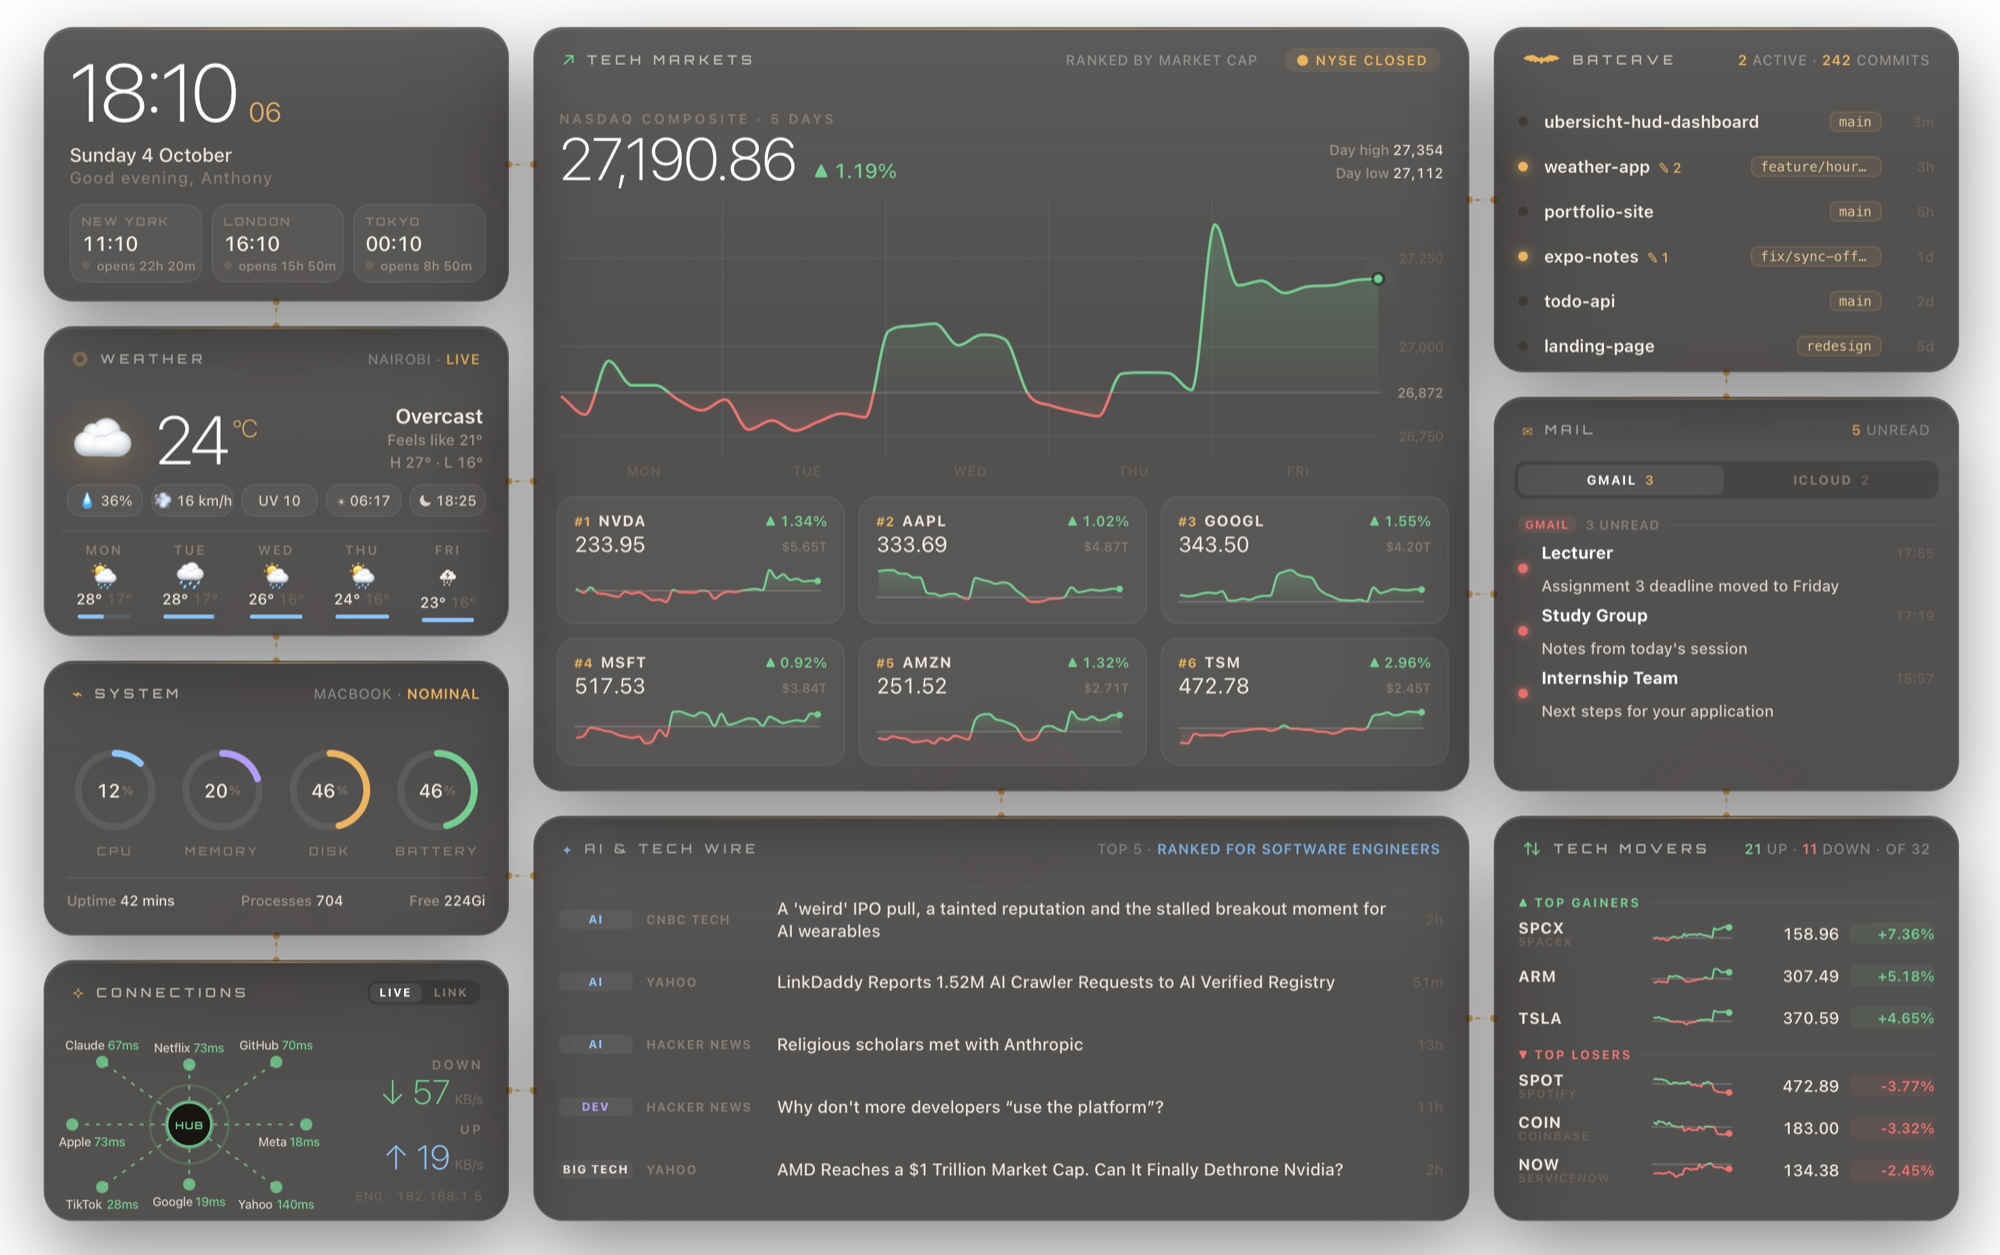
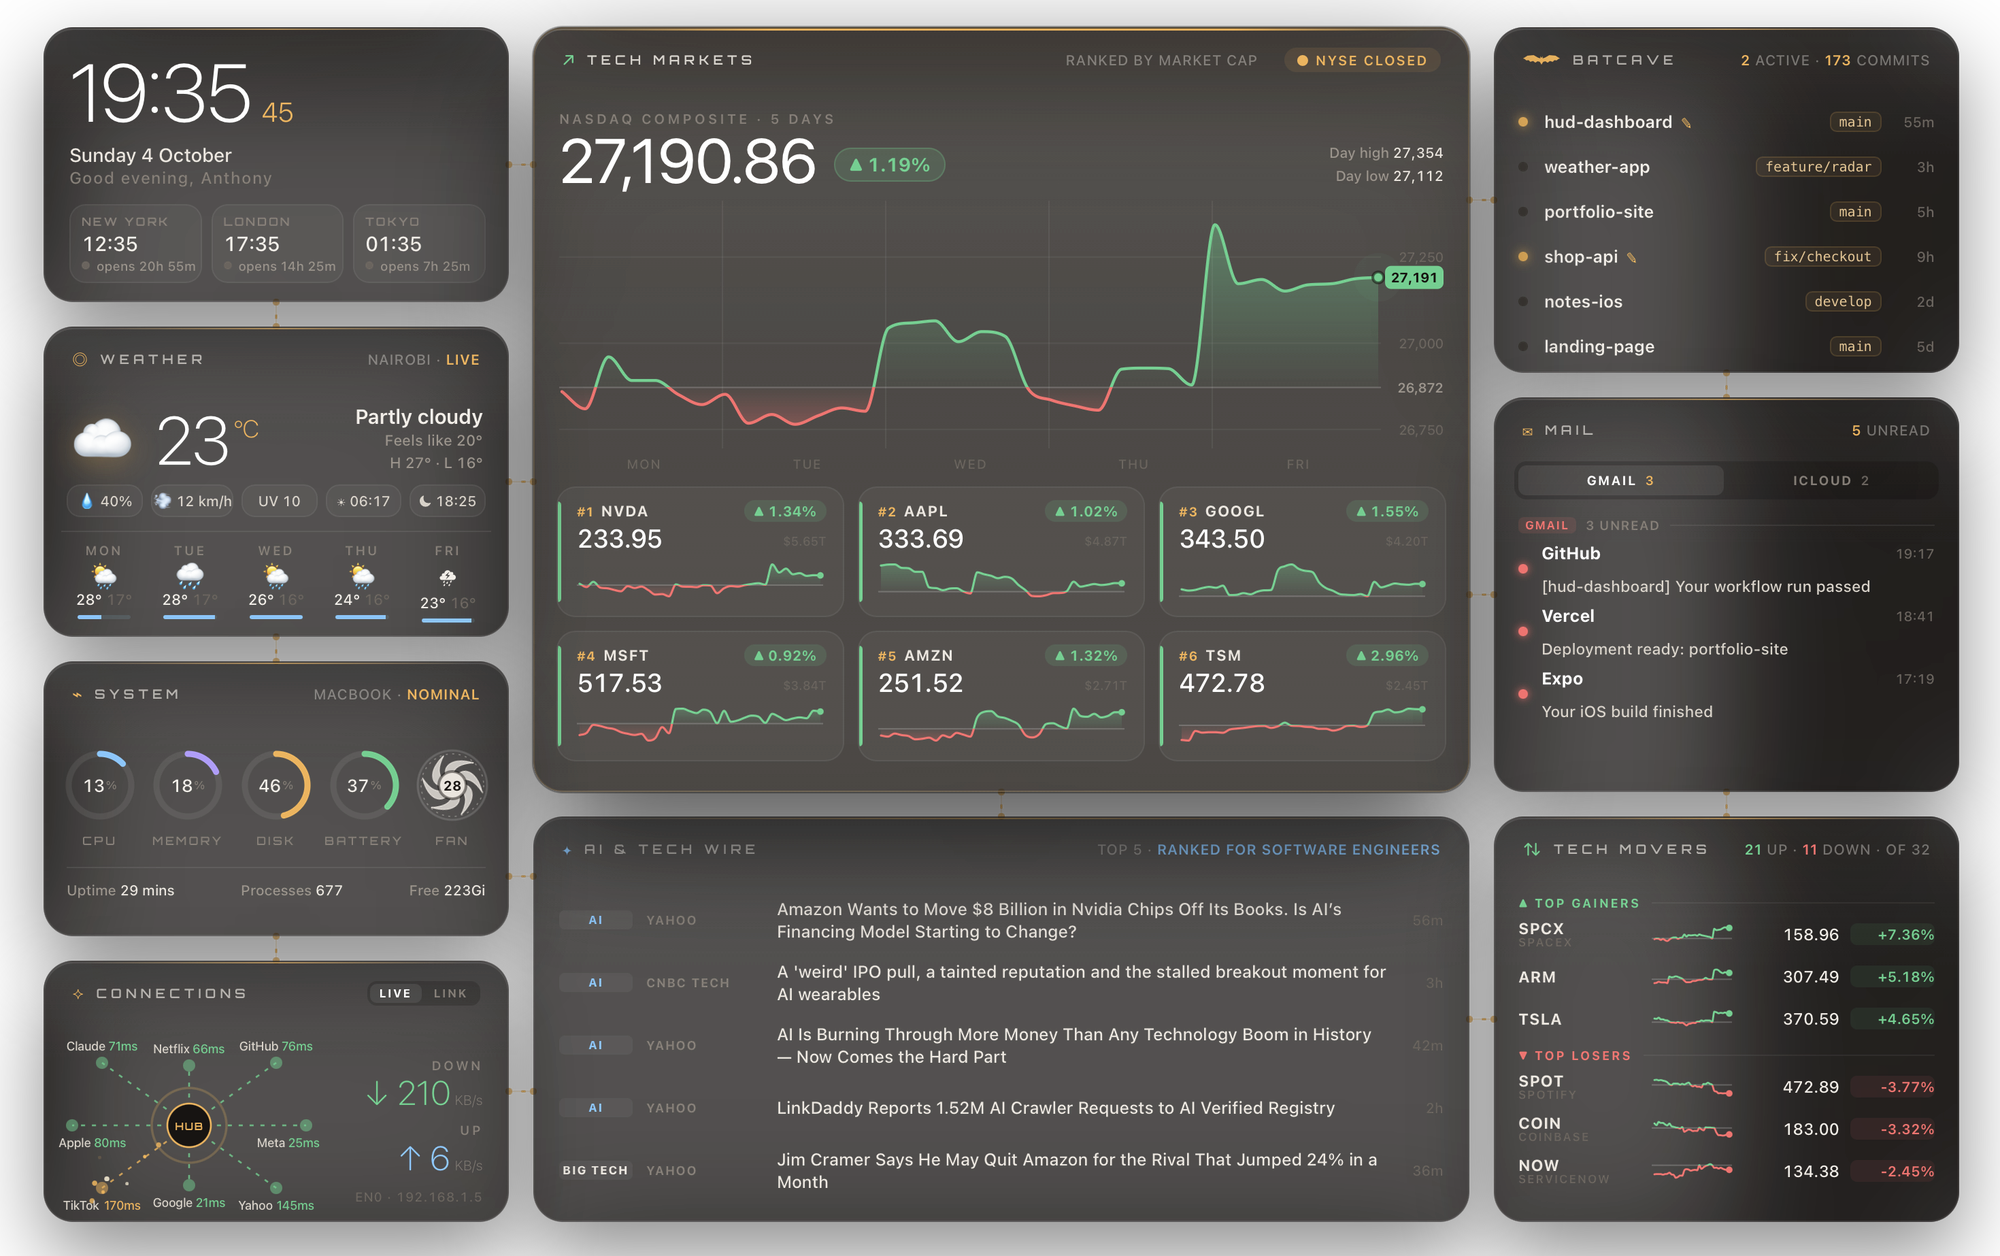
System: load-driven fan; fresh README screenshots
A fifth gauge on the System panel: a turbine fan whose speed follows the
combined load (CPU, memory, battery drain, disk), from a lazy 0.25 rev/s
at idle to a 3.5 rev/s blur, ramping smoothly between refreshes. The
header status now reads NOMINAL / BUSY / WORKING HARD / HOT.

Tech Markets: the stage falls back to NASDAQ 8 s after the mouse last
moved over the panel, since leaving into a gap sends no mouseleave.

README: new dashboard, Tech Markets and System screenshots (placeholder
projects and emails) and updated descriptions.

diff --git a/build_widgets.py b/build_widgets.py
@@ -438,28 +438,31 @@ export const render = ({ output }) => {
 };''')
 
 # ───────────────────────── SYSTEM ─────────────────────────
-widget("system", r'''// System monitor: CPU, memory, disk, battery.
+widget("system", r'''// System monitor: CPU, memory, disk, battery + a fan whose speed follows the combined load.
 export const command = "~/.stark/system.sh";
 export const refreshFrequency = 10 * 1000;
 export const className = `
   %%POS%%%%SHARED%%
-  .rings { display:grid; grid-template-columns: repeat(4, 1fr); padding:16px 12px 8px; text-align:center }
-  .ring { position:relative; width:64px; height:64px; margin:0 auto }
-  .ring b { position:absolute; inset:0; display:flex; align-items:center; justify-content:center; font-size:14px; font-weight:500 }
-  .ring b small { font-size:9px; color:#8c8178; margin-left:1px }
-  .rl { margin-top:7px }
+  .rings { display:grid; grid-template-columns: repeat(5, 1fr); padding:16px 8px 8px; text-align:center }
+  .ring { position:relative; width:56px; height:56px; margin:0 auto }
+  .ring b { position:absolute; inset:0; display:flex; align-items:center; justify-content:center; font-size:13px; font-weight:500 }
+  .ring b small { font-size:8.5px; color:#8c8178; margin-left:1px }
+  .rl { margin-top:7px; letter-spacing:.18em }
+  .fan .rot { position:absolute; inset:0; will-change: transform }
+  .fan .blur { position:absolute; inset:5px; border-radius:50%; transition: opacity 1.5s }
+  .fan b { font-size:10px; font-weight:700; color:#1a1512 }
   .foot { display:flex; justify-content:space-between; margin:6px 16px 0; padding-top:10px; border-top:1px solid rgba(255,214,170,.08); font-size:10.5px; color:#a39a92 }
   .foot b { color:#e6dcd2; font-weight:500 }
 `;
 const Ring = ({ v, col, label }) => {
-  const r = 27, C = 2 * Math.PI * r, f = Math.max(0, Math.min(100, v)) / 100;
+  const r = 23, C = 2 * Math.PI * r, f = Math.max(0, Math.min(100, v)) / 100;
   return (
     <div>
       <div className="ring">
-        <svg width="64" height="64" viewBox="0 0 64 64">
-          <circle cx="32" cy="32" r={r} fill="none" stroke="rgba(255,214,170,.08)" strokeWidth="5" />
-          <circle cx="32" cy="32" r={r} fill="none" stroke={col} strokeWidth="5" strokeLinecap="round"
-            strokeDasharray={`${C * f} ${C}`} transform="rotate(-90 32 32)" style={{ filter: `drop-shadow(0 0 4px ${col})` }} />
+        <svg width="56" height="56" viewBox="0 0 56 56">
+          <circle cx="28" cy="28" r={r} fill="none" stroke="rgba(255,214,170,.08)" strokeWidth="4.5" />
+          <circle cx="28" cy="28" r={r} fill="none" stroke={col} strokeWidth="4.5" strokeLinecap="round"
+            strokeDasharray={`${C * f} ${C}`} transform="rotate(-90 28 28)" style={{ filter: `drop-shadow(0 0 4px ${col})` }} />
         </svg>
         <b className="num">{Math.round(v)}<small>%</small></b>
       </div>
@@ -468,16 +471,67 @@ const Ring = ({ v, col, label }) => {
   );
 };
 const heat = v => v > 85 ? "#f87171" : v > 65 ? "#ffb35c" : null;
-export const render = ({ output }) => {
-  let s = null; try { s = JSON.parse(output); } catch (e) {}
+// Combined load: CPU counts most, then memory, battery drain (a charging Mac counts a little) and disk.
+const loadOf = s => Math.round(Math.max(0, Math.min(100,
+  .45 * s.cpu + .25 * s.mem + .2 * (s.charging ? 25 : 100 - s.batt) + .1 * s.disk)));
+// Revolutions per second: lazy 0.25 at idle, a blur at 3.5 flat out (exponential, so every step is visible).
+const rps = load => 0.25 * Math.pow(14, load / 100);
+// The rotor keeps spinning across refreshes; a new target speed ramps in over ~1.5 s instead of jumping.
+const spin = load => el => {
+  if (!el) return;
+  if (!el.__spin || el.__spin.playState === "idle") {
+    el.getAnimations().forEach(a => a.cancel());
+    el.__spin = el.animate([{ transform: "rotate(0deg)" }, { transform: "rotate(360deg)" }], { duration: 1000, iterations: Infinity });
+    el.__spin.playbackRate = rps(load);
+  }
+  const anim = el.__spin, from = anim.playbackRate, to = rps(load), t0 = performance.now();
+  clearInterval(el.__ramp);
+  el.__ramp = setInterval(() => {
+    const k = Math.min(1, (performance.now() - t0) / 1500), e = 1 - Math.pow(1 - k, 3);
+    anim.playbackRate = from + (to - from) * e;
+    if (k >= 1) clearInterval(el.__ramp);
+  }, 50);
+};
+const Fan = ({ load }) => {
+  const col = load > 85 ? "#f87171" : load > 65 ? "#ffb35c" : "#ebe5dd";
+  const blade = "M30.3 19.3 Q34 13.2 46.4 15.1 C31.7 7.3 24.1 13.5 24.9 19.5 Z";  // swept blade: hub root to a tip trailing 55° round
   return (
     <div>
-      <header><span style={{ color: "#ffb35c" }}>⌁</span><h1>SYSTEM</h1><span className="sub">MACBOOK · <b>{s ? "NOMINAL" : "…"}</b></span></header>
+      <div className="ring fan">
+        <svg width="56" height="56" viewBox="0 0 56 56" style={{ position: "absolute", inset: 0 }}>
+          <circle cx="28" cy="28" r="25.5" fill="rgba(255,214,170,.035)" stroke="rgba(255,214,170,.14)" strokeWidth="1.5" />
+          <circle cx="28" cy="28" r="23" fill="none" stroke={col} strokeOpacity=".35" strokeWidth=".8" strokeDasharray="1.5 3.2" />
+        </svg>
+        <div className="blur" style={{ opacity: Math.max(0, (load - 35) / 90),
+          background: `radial-gradient(circle, transparent 30%, ${col}22 55%, ${col}10 75%, transparent 78%)` }} />
+        <div className="rot" ref={spin(load)}>
+          <svg width="56" height="56" viewBox="0 0 56 56">
+            {[0, 1, 2, 3, 4, 5].map(i => <path key={i} d={blade} transform={`rotate(${i * 60} 28 28)`}
+              fill={col} fillOpacity=".8" stroke={col} strokeWidth=".6" strokeLinejoin="round" />)}
+          </svg>
+        </div>
+        <svg width="56" height="56" viewBox="0 0 56 56" style={{ position: "absolute", inset: 0 }}>
+          <circle cx="28" cy="28" r="10" fill={col} stroke="#1a1512" strokeOpacity=".5" strokeWidth="2" />
+        </svg>
+        <b className="num">{load}</b>
+      </div>
+      <div className="lbl rl">FAN</div>
+    </div>
+  );
+};
+export const render = ({ output }) => {
+  let s = null; try { s = JSON.parse(output); } catch (e) {}
+  const load = s ? loadOf(s) : 0;
+  return (
+    <div>
+      <header><span style={{ color: "#ffb35c" }}>⌁</span><h1>SYSTEM</h1>
+        <span className="sub">MACBOOK · <b>{!s ? "…" : load > 85 ? "HOT" : load > 65 ? "WORKING HARD" : load > 40 ? "BUSY" : "NOMINAL"}</b></span></header>
       {s && <div className="rings">
         <Ring v={s.cpu} col={heat(s.cpu) || "#7fdcff"} label="CPU" />
         <Ring v={s.mem} col={heat(s.mem) || "#a78bfa"} label="MEMORY" />
         <Ring v={s.disk} col={heat(s.disk) || "#ffb35c"} label="DISK" />
         <Ring v={s.batt} col={s.batt < 20 ? "#f87171" : "#4ade80"} label={s.charging ? "⚡ POWER" : "BATTERY"} />
+        <Fan load={load} />
       </div>}
       {s && <div className="foot num"><span>Uptime <b>{s.uptime}</b></span><span>Processes <b>{s.procs}</b></span><span>Free <b>{s.diskFree}</b></span></div>}
     </div>
@@ -741,12 +795,15 @@ const nyOpen = () => {
 };
 const cap = c => !c ? "" : c >= 1e12 ? `$${(c / 1e12).toFixed(2)}T` : `$${Math.round(c / 1e9)}B`;
 const yahoo = s => run(`open "https://finance.yahoo.com/quote/${encodeURIComponent(s)}"`);
-// Hover a tile to put its 5-day chart on the big stage; leaving the panel brings NASDAQ back.
+// Hover a tile to put its 5-day chart on the big stage; leaving the panel (or 8 s idle) brings NASDAQ back.
 const pick = (root, sym) => {
   if (!root) return;
   root.querySelectorAll(".hero").forEach(h => h.classList.toggle("on", h.dataset.sym === sym));
   root.querySelectorAll(".tile").forEach(t => t.classList.toggle("sel", t.dataset.sym === sym));
 };
+// Leaving into a gap between panels sends no mouseleave (Übersicht passes those clicks through to the desktop),
+// so the stage also falls back to NASDAQ 8 s after the mouse last moved over the panel.
+const home = e => { const el = e.currentTarget; clearTimeout(window.__mkHome); window.__mkHome = setTimeout(() => pick(el, "^IXIC"), 8000); };
 const HeroView = ({ x, label, on }) => (
   <div className={"hero" + (on ? " on" : "")} data-sym={x.sym} onClick={() => yahoo(x.sym)}>
     <div className="hname">{label}</div>
@@ -772,7 +829,7 @@ export const render = ({ output }) => {
         <span className="sub">RANKED BY MARKET CAP</span>
         <span className="pill" style={{ color: open ? "#4ade80" : "#ffb35c", background: open ? "rgba(74,222,128,.1)" : "rgba(255,179,92,.1)" }}>
           ● NYSE {open ? "OPEN" : "CLOSED"}</span></header>
-      {!hero ? <div className="hero on muted">Connecting to markets…</div> : <div onMouseLeave={e => pick(e.currentTarget, "^IXIC")}>
+      {!hero ? <div className="hero on muted">Connecting to markets…</div> : <div onMouseLeave={e => pick(e.currentTarget, "^IXIC")} onMouseMove={home}>
         <div className="stage">
           <HeroView x={hero} label="NASDAQ COMPOSITE · 5 DAYS" on />
           {top.map((x, i) => <HeroView key={x.sym} x={x}

diff --git a/README.md b/README.md
@@ -29,12 +29,12 @@ Everything is plain scripts: no API keys, no paid services, no AI calls.
 | | |
 |---|---|
 | ![Clock](docs/clock.png) **Clock**: local time and date with New York, London and Tokyo, each showing when its stock market opens or closes. | ![Weather](docs/weather.png) **Weather**: current conditions, feels‑like, humidity, wind, UV, sunrise/sunset and a 5‑day forecast with rain chance bars. |
-| ![System](docs/system.png) **System**: CPU, memory, disk and battery rings that turn amber above 65% and red above 85% (battery red under 20%, ⚡ while charging), plus uptime, process count and free disk. | ![Connections](docs/connections-healthy.png) **Connections**: live health of 8 services around a HUB, plus download and upload speed. See [Connections widget](#connections-widget) for every state. |
+| ![System](docs/system.png) **System**: CPU, memory, disk and battery rings that turn amber above 65% and red above 85% (battery red under 20%, ⚡ while charging), and a fan that spins faster as the combined load rises (CPU counts most, then memory, battery drain and disk), from a lazy turn at idle to a blur flat out. Plus uptime, process count and free disk. | ![Connections](docs/connections-healthy.png) **Connections**: live health of 8 services around a HUB, plus download and upload speed. See [Connections widget](#connections-widget) for every state. |
 | ![Batcave](docs/batcave.png) **Batcave**: your git projects, most recently committed first, with branch, uncommitted changes (✎) and the age of the last commit. Click one to open it in VS Code. | ![Mail](docs/mail.png) **Mail**: unread mail from Gmail's Primary tab and iCloud, in tabs. Click an email to open it in Mail. |
 | ![Tech Movers](docs/movers.png) **Tech Movers**: the day's biggest tech gainers and losers with sparklines of the last few trading days. | ![AI & Tech Wire](docs/ai-wire.png) **AI & Tech Wire**: the top 5 tech headlines, AI stories ranked first. Click to read. |
 
 ![Tech Markets](docs/markets.png)
-**Tech Markets**: the NASDAQ Composite over 5 days (hover for any point) and the biggest tech stocks ranked by market cap, with NYSE open/closed status.
+**Tech Markets**: the NASDAQ Composite over 5 days (hover for any point) with a live price tag on the axis, and the 6 biggest tech stocks ranked by market cap, with NYSE open/closed status. Hover a stock to put its own 5‑day chart on the big stage; a price flashes green or red and its sparkline redraws when it moves.
 
 Each data panel shows a red badge in its header if its data fails or stops updating (for example *No internet*).
 Screenshots use placeholder projects and emails; everything else is live data.
